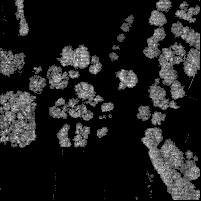
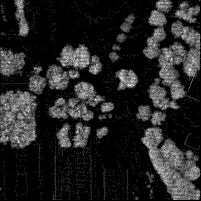
WIP

diff --git a/src/main.cpp b/src/main.cpp
@@ -11,15 +11,16 @@ int main() {
     // define map closures object
     map_closures::Config config;
     config.density_map_resolution = 1.0;
-    config.density_threshold = 0.2;
+    config.density_threshold = 0.1;
     config.hamming_distance_threshold = 50;
     map_closures::MapClosures map_closures(config);
     int id = 0;
+    float filter_voxel_size = 0.2;
 
     //load data
     DataLoader dataLoader;
-    std::string folderPath = "/home/michal/git/PointCloudLoader/ply_files/tiles_ply/";
-    std::vector<std::string> files = {"5_0_0.ply", "5_0_1.ply", "5_0_2.ply", "5_0_3.ply", "5_0_4.ply","5_1_0.ply", "5_1_1.ply", "5_1_2.ply", "5_1_3.ply", "5_1_4.ply"};
+    std::string folderPath = "/home/michal/git/LidarLocalisationProject/map_tiles_ply/";
+    std::vector<std::string> files = {"5_0_0.ply", "5_0_1.ply", "5_0_2.ply", "5_0_3.ply", "5_0_4.ply","5_1_0.ply", "5_1_1.ply", "5_1_2.ply", "5_1_3.ply", "5_1_4.ply", "5_2_0.ply", "5_2_1.ply", "5_2_2.ply", "5_2_3.ply", "5_2_4.ply","5_3_0.ply", "5_3_1.ply", "5_3_2.ply", "5_3_3.ply", "5_3_4.ply","5_4_0.ply", "5_4_1.ply", "5_4_2.ply", "5_4_3.ply", "5_4_4.ply"};
 
     for (const std::string& file : files) {
       std::string filePath = folderPath + file;
@@ -32,7 +33,6 @@ int main() {
       }
       
       //downsample the pointcloud
-      float filter_voxel_size = 0.25;
       boost::shared_ptr<pcl::PointCloud<pcl::PointXYZ>> down_cloud = dataLoader.downsamplePointCloud(cloud, filter_voxel_size);
 
       std::vector<Eigen::Vector3d> pointVector;
@@ -48,13 +48,41 @@ int main() {
       std::cout<< "Added submap with id "<<std::to_string(id)<<std::endl; 
       
       //visualise the submap (save it to file)
-      //std::string outputFilePath = "/home/michal/git/LidarLocalisationProject/debug/grid_" + std::to_string(id) + ".png";
-      //map_closures.saveSubmapToFile(id, outputFilePath);
+      std::string outputFilePath = "/home/michal/git/LidarLocalisationProject/debug/grid_" + std::to_string(id) + ".png";
+      //std::string filepath = "/home/michal/git/LidarLocalisationProject/debug/grid_" + std::to_string(map_id) + ".png";
+      map_closures.saveSubmapToFile(id, outputFilePath);
 
       //query match of new
       //pointcloud
       id++;
+      std::cout<<std::endl;
     }
+
+    std::cout<<"Loading database ready!"<<std::endl<<std::endl;
+    
+    //query map
+
+    std::string filePath = folderPath + "x.ply";
+    boost::shared_ptr<pcl::PointCloud<pcl::PointXYZ>> cloud = dataLoader.parsePLYFile(filePath);     
+    
+    if (cloud) {
+        std::cout << "Point cloud loaded successfully!" << std::endl;
+    } else {
+        std::cout << "Failed to load point cloud." << std::endl;
+    }
+    
+    //downsample the pointcloud
+    boost::shared_ptr<pcl::PointCloud<pcl::PointXYZ>> down_cloud = dataLoader.downsamplePointCloud(cloud, filter_voxel_size);
+
+    std::vector<Eigen::Vector3d> pointVector;
+    dataLoader.convertPointCloudToEigenVector(down_cloud, pointVector);
+    std::cout<<pointVector.size()<<std::endl;
+    
+    //add submap to database
+    //std::cout<<"AAAAAAAAAA id:"<<id<<std::endl;
+    map_closures::ClosureCandidate closure = map_closures.MatchAndAdd(id, pointVector);
+    std::cout<< "Added submap with id "<<std::to_string(id)<<std::endl; 
+    std::cout<<"Closure: from "<<closure.source_id<<" to: "<<closure.target_id<<" number of inliers: "<<closure.number_of_inliers<<std::endl;
 
     return 0;
 }

diff --git a/map_closures_cpp/map_closures/MapClosures.cpp b/map_closures_cpp/map_closures/MapClosures.cpp
@@ -78,10 +78,10 @@ void MapClosures::AddNewSubmap(const int id, const std::vector<Eigen::Vector3d> 
                                    config_.hamming_distance_threshold,
                                    srrg_hbst::SplittingStrategy::SplitEven);
 
-    std::string filepath = "/home/michal/git/LidarLocalisationProject/debug/grid_" + std::to_string(id) + ".png";
-    if (!cv::imwrite(filepath, density_map.grid)) {
-        throw std::runtime_error("Failed to save the density map grid to file.");
-    }
+    //std::string filepath = "/home/michal/git/LidarLocalisationProject/debug/grid_" + std::to_string(id) + ".png";
+    //if (!cv::imwrite(filepath, density_map.grid)) {
+    //    throw std::runtime_error("Failed to save the density map grid to file.");
+    //}
     density_maps_.emplace(id, std::move(density_map));
 }
 
@@ -90,11 +90,11 @@ void MapClosures::saveSubmapToFile(const int map_id, const std::string &filepath
     const DensityMap &density_map = getDensityMapFromId(map_id);
 
     // Print debug information
-    std::cout << "Saving grid to file: " << filepath << std::endl;
-    std::cout << "Grid size: " << density_map.grid.cols << "x" << density_map.grid.rows << std::endl;
-    std::cout << "Grid type: " << density_map.grid.type() << std::endl;
-    std::cout << "Grid depth: " << density_map.grid.depth() << std::endl;
-    std::cout << "Grid channels: " << density_map.grid.channels() << std::endl;
+    //std::cout << "Saving grid to file: " << filepath << std::endl;
+    //std::cout << "Grid size: " << density_map.grid.cols << "x" << density_map.grid.rows << std::endl;
+    //std::cout << "Grid type: " << density_map.grid.type() << std::endl;
+    //std::cout << "Grid depth: " << density_map.grid.depth() << std::endl;
+    //std::cout << "Grid channels: " << density_map.grid.channels() << std::endl;
 
     if (!cv::imwrite(filepath, density_map.grid)) {
         throw std::runtime_error("Failed to save the density map grid to file.");
@@ -121,6 +121,7 @@ ClosureCandidate MapClosures::MatchAndAdd(const int id,
                                          const ClosureCandidate &b) -> ClosureCandidate {
         return a.number_of_inliers > b.number_of_inliers ? a : b;
     };
+    
     using iterator_type = std::vector<int>::const_iterator;
     const auto &closure = tbb::parallel_reduce(
         tbb::blocked_range<iterator_type>{indices.cbegin(), indices.cend()}, ClosureCandidate(),
@@ -137,10 +138,12 @@ ClosureCandidate MapClosures::MatchAndAdd(const int id,
 }
 
 ClosureCandidate MapClosures::ValidateClosure(const int reference_id, const int query_id) const {
+  std::cout<<"Validate closure call, ref_id:"<<reference_id<<" query_id:"<<query_id;
     const Tree::MatchVector &matches = descriptor_matches_.at(reference_id);
     const size_t num_matches = matches.size();
 
     ClosureCandidate closure;
+    std::cout<<" number of matches: "<<num_matches<<std::endl;
     if (num_matches > 2) {
         const auto &ref_map_lower_bound = density_maps_.at(reference_id).lower_bound;
         const auto &qry_map_lower_bound = density_maps_.at(query_id).lower_bound;
